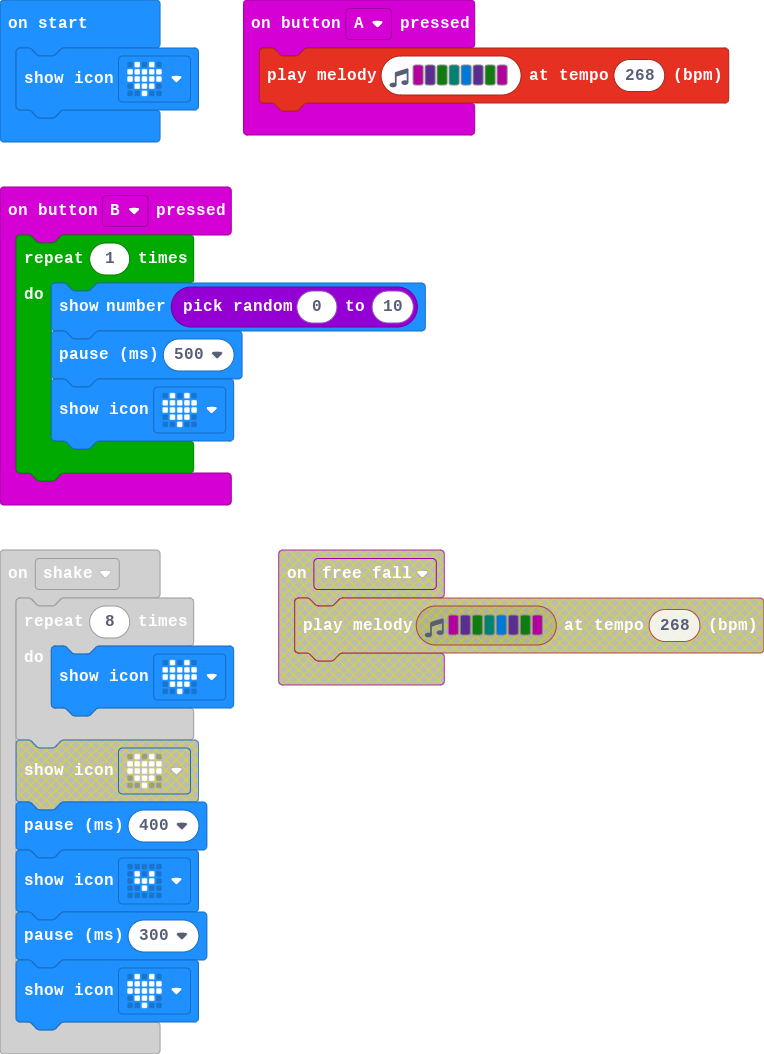
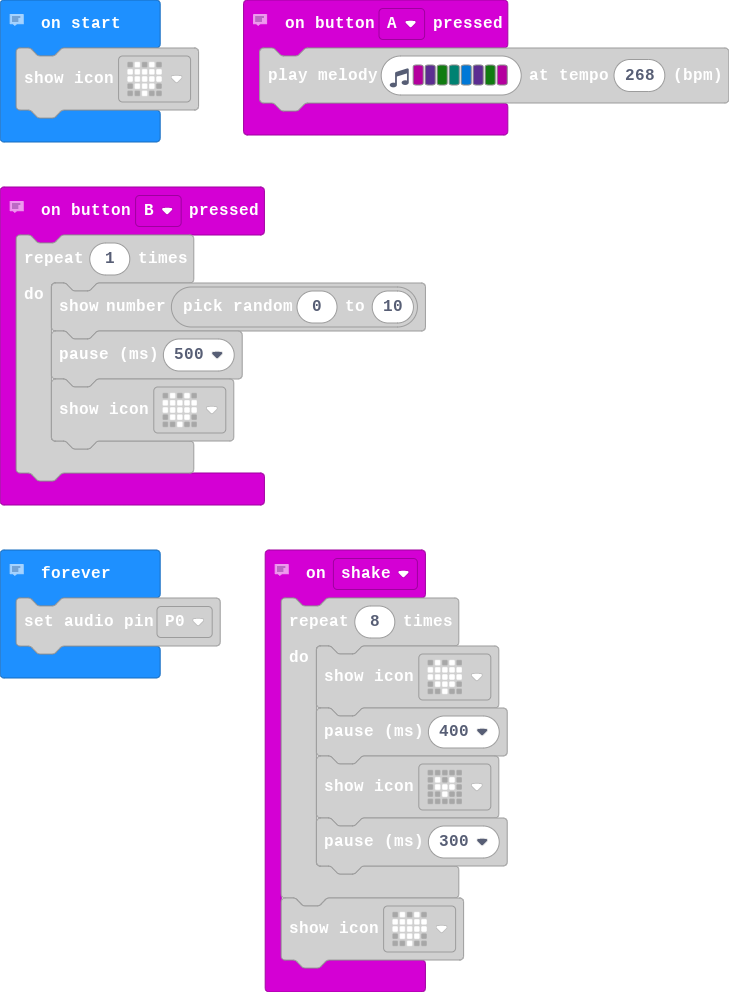
Update main.blocks, main.ts

diff --git a/main.ts b/main.ts
@@ -1,6 +1,8 @@
+// When Button A is pressed audio will play
 input.onButtonPressed(Button.A, function () {
     music.playMelody("C D G F E D G C ", 268)
 })
+// When button B is pressed it generates a random number from 0-10, you can play it as a game.
 input.onButtonPressed(Button.B, function () {
     for (let index = 0; index < 1; index++) {
         basic.showNumber(randint(0, 10))
@@ -8,6 +10,7 @@ input.onButtonPressed(Button.B, function () {
         basic.showIcon(IconNames.Heart)
     }
 })
+// When the Micro:bit is shaken the Heart will beat 8 times then go back to normal.
 input.onGesture(Gesture.Shake, function () {
     for (let index = 0; index < 8; index++) {
         basic.showIcon(IconNames.Heart)
@@ -17,7 +20,9 @@ input.onGesture(Gesture.Shake, function () {
     }
     basic.showIcon(IconNames.Heart)
 })
+// When first started it shows a heart.
 basic.showIcon(IconNames.Heart)
+// Pin 0 on the Micro:bit is connected to a speaker.
 basic.forever(function () {
     pins.setAudioPin(AnalogPin.P0)
 })
